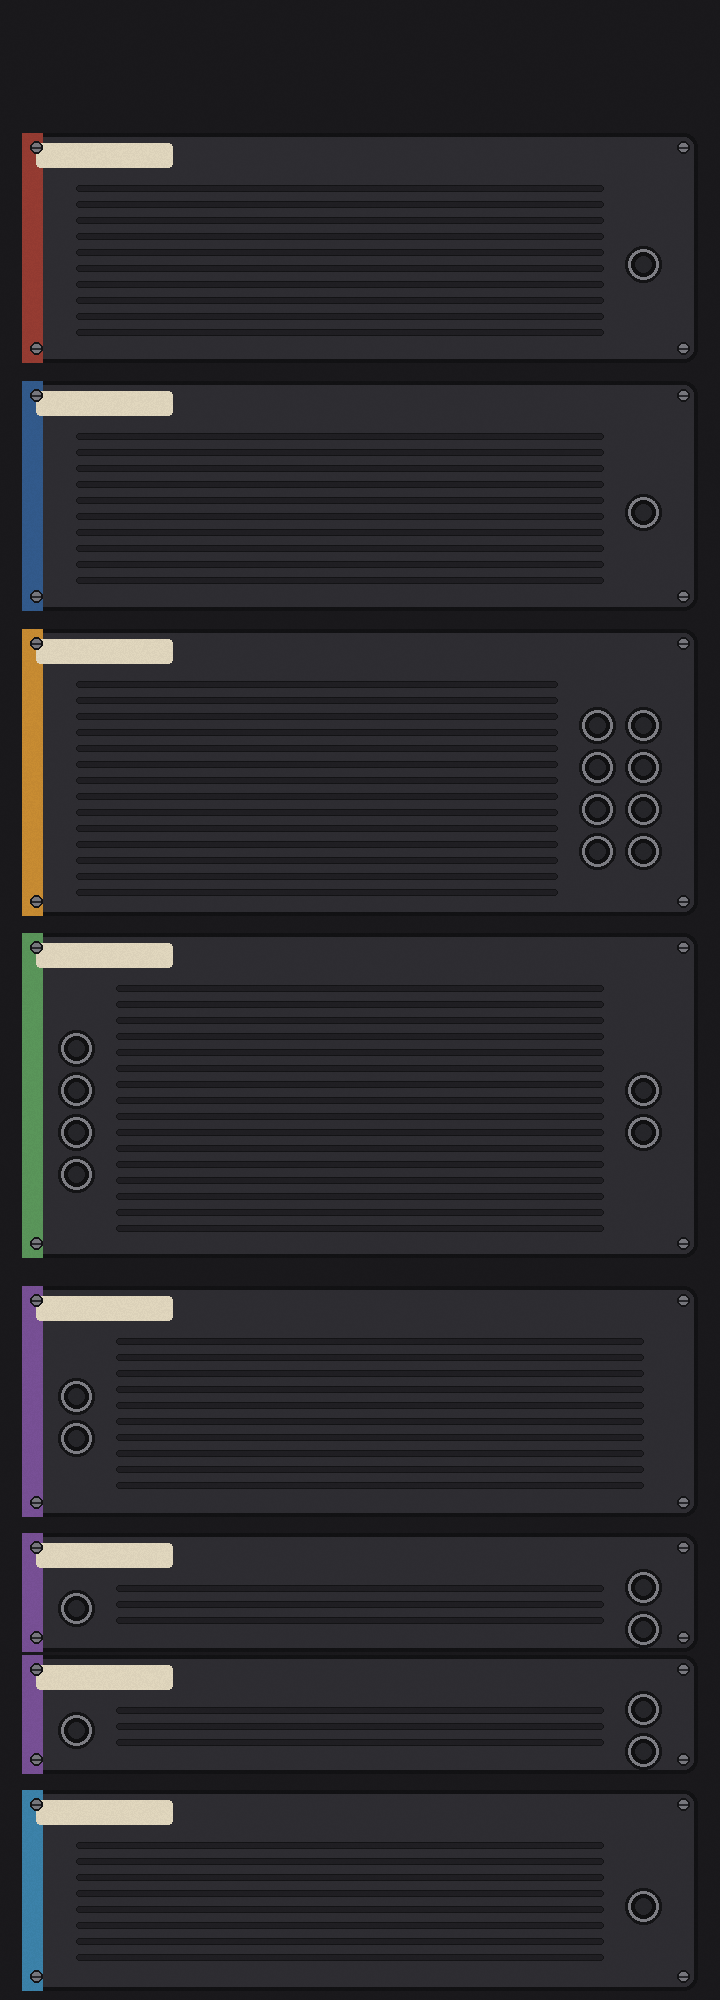
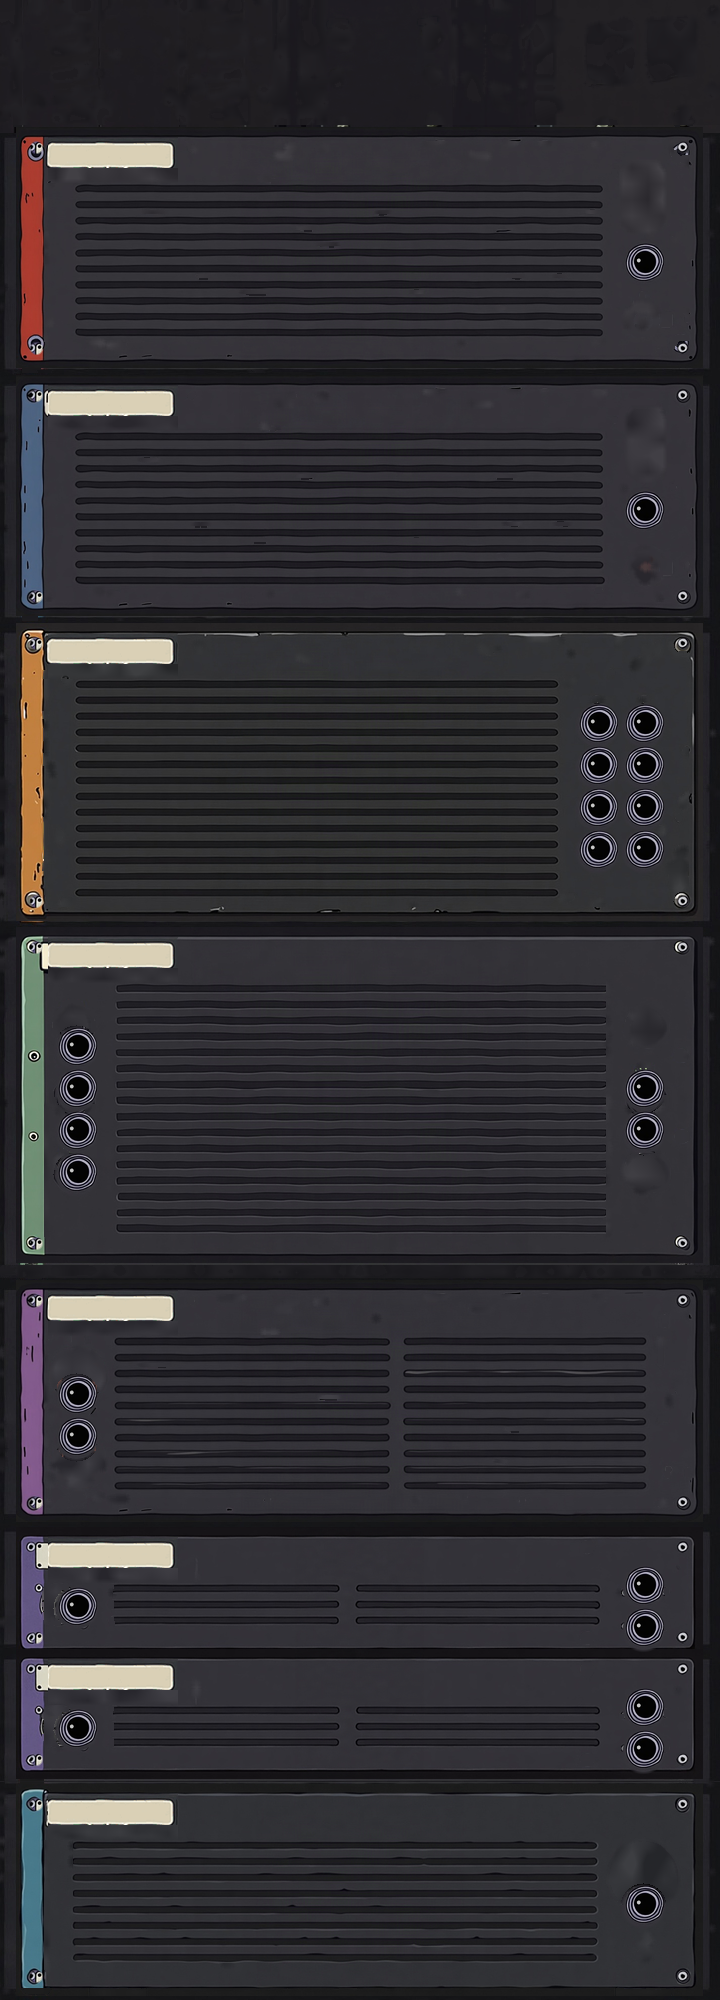
ui: 뒷면 패널 채택(시드 1234, opus 비전) + 케이블 색↔패널 띠 게이트
비전 평결: 1234가 앞면의 차가운 캐스트를 유지하고 발명 물체 0건·헤더가 조용하다. 7은
리버브·코러스 행에 켜진 표시창처럼 보이는 발명 슬롯이 잭 옆에 생겨 가짜 포트로 오독되고,
2026은 잭에 러그·눈금이 붙어 노브로 읽혀 뒷면의 존재 이유를 깬다. FIX 3건 + 선택 1건은
P5-back-fix 라운드가 결정론 후처리로 닫았다(게이트 ⑧ 포함 전 항목 PASS).

TestCableColorsMatchPanel: 케이블 색이 패널 띠 실측과 ±6 안. 그림 라운드가 패널을 바꾸면
이 게이트가 먼저 걸린다.

diff --git a/app/view/device/back_test.go b/app/view/device/back_test.go
@@ -10,10 +10,14 @@
 package device
 
 import (
+	"bytes"
+	"image"
+	"sort"
 	"testing"
 
 	"github.com/hajimehoshi/ebiten/v2"
 
+	"github.com/midagedev/jangdan/app/assets"
 	"github.com/midagedev/jangdan/app/core"
 	"github.com/midagedev/jangdan/engine"
 )
@@ -425,5 +429,50 @@ func TestCableGroupCount(t *testing.T) {
 	t.Logf("기본 랙 케이블 %d개 → 색 그룹 %d개(상한 %d)", n, len(seen), maxCableGroups)
 	if len(seen) > maxCableGroups {
 		t.Fatalf("그룹 %d > 상한 %d — 초과분이 마지막 그룹 색으로 그려진다", len(seen), maxCableGroups)
+	}
+}
+
+// TestCableColorsMatchPanel — 케이블 색(colCable)이 뒷면 패널의 섹션 색 띠 실측과 같은가.
+// 색은 "이 줄이 어디서 나오는가"의 유일한 단서라 그림과 어긋나면 배선이 거짓말을 한다.
+// 그림 라운드가 패널을 바꾸면 이 게이트가 먼저 걸린다(2026-09-06 채택본 시드 1234 기준).
+// 허용 오차 6은 팔레트 양자화(256색 저장)와 중앙값 계산의 여유다.
+func TestCableColorsMatchPanel(t *testing.T) {
+	l, err := core.LoadRearLayout(assets.DeviceRearJSON)
+	if err != nil {
+		t.Fatalf("rear.json: %v", err)
+	}
+	data, err := assets.Read("device/rear.png")
+	if err != nil {
+		t.Skipf("rear.png 없음(데스크톱 embed 경로 밖): %v", err)
+	}
+	img, _, err := image.Decode(bytes.NewReader(data))
+	if err != nil {
+		t.Fatalf("rear.png 디코드: %v", err)
+	}
+	for i := range l.Devices {
+		d := &l.Devices[i]
+		x0, y0 := int(d.Rect[0])+4, int(d.Rect[1])+10
+		x1, y1 := int(d.Rect[0])+16, int(d.Rect[1]+d.Rect[3])-10
+		var rs, gs, bs []int
+		for y := y0; y < y1; y++ {
+			for x := x0; x < x1; x++ {
+				r, g, b, _ := img.At(x, y).RGBA()
+				rs = append(rs, int(r>>8))
+				gs = append(gs, int(g>>8))
+				bs = append(bs, int(b>>8))
+			}
+		}
+		sort.Ints(rs)
+		sort.Ints(gs)
+		sort.Ints(bs)
+		mid := len(rs) / 2
+		want := colCable[d.Slot]
+		got := [3]int{rs[mid], gs[mid], bs[mid]}
+		for k, v := range [3]int{int(want.R), int(want.G), int(want.B)} {
+			if diff := got[k] - v; diff > 6 || diff < -6 {
+				t.Errorf("슬롯 %d(%s) 띠 실측 %v ≠ colCable %v", d.Slot, d.Name, got, want)
+				break
+			}
+		}
 	}
 }
